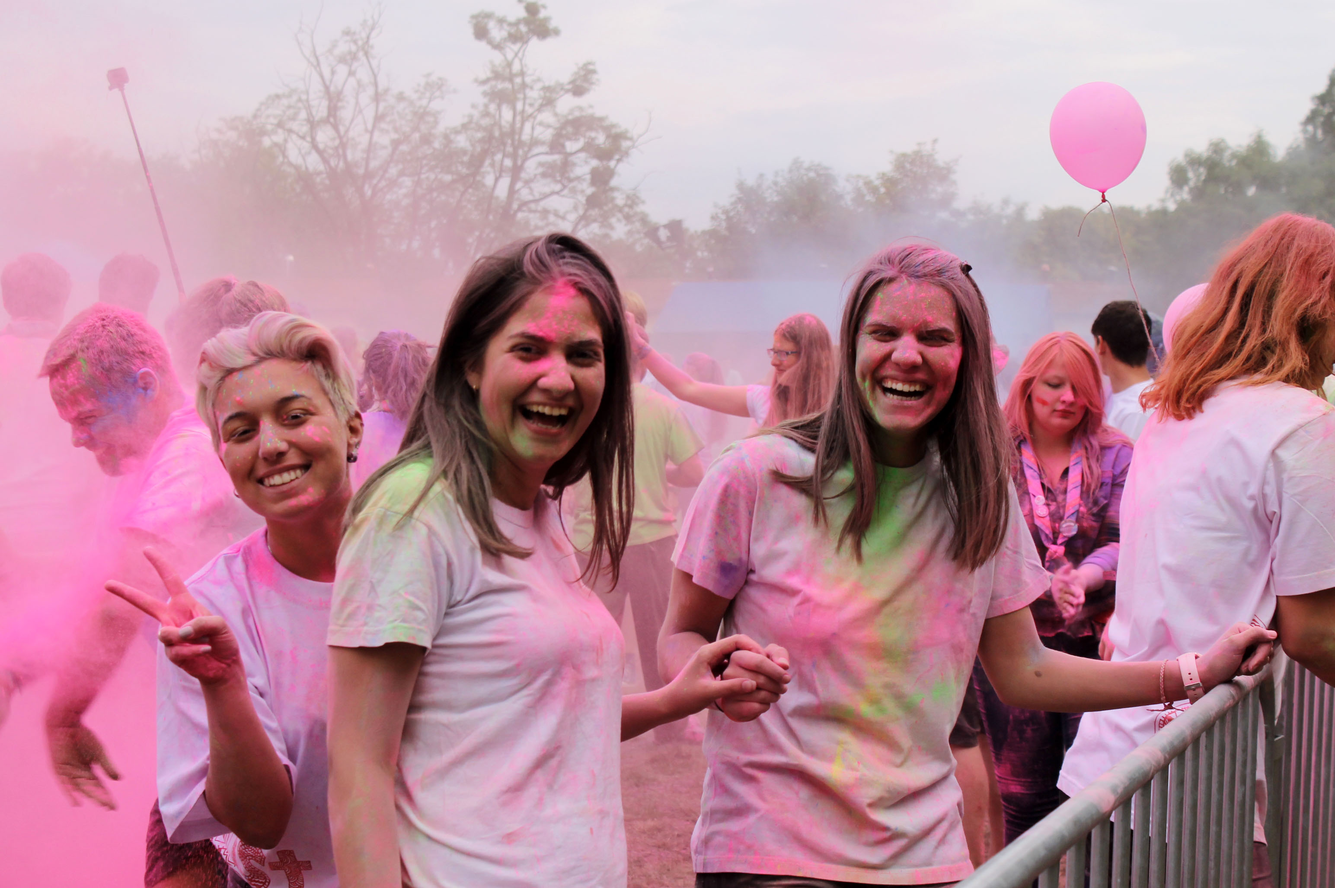
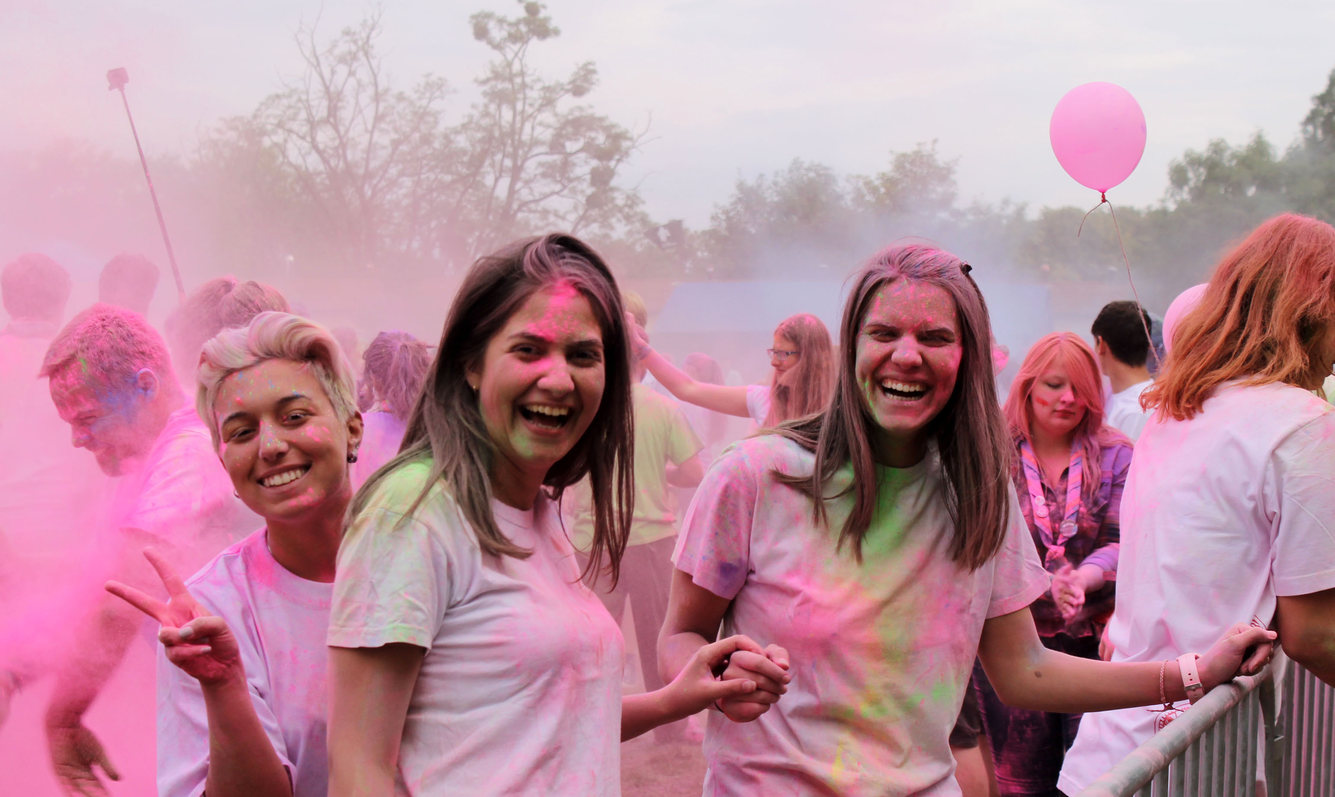
changed photos

diff --git a/index.html b/index.html
@@ -35,7 +35,7 @@
 		<a href="#registration" class="button">Registruj se!</a>
 	</div>
 
-	<img class="narrowPhoto" size="100vw" src="photos/IMG_1959.jpg" srcset="dist/photos/IMG_1959-400.jpg 400w, dist/photos/IMG_1959-800.jpg 800w, dist/photos/IMG_1959-1200.jpg 1200w, dist/photos/IMG_1959-2400.jpg 2400w">
+	<img class="narrowPhoto" size="100vw" src="photos/IMG_1959.jpg" srcset="photos/resized/IMG_1959-400.jpg 400w, photos/resized/IMG_1959-800.jpg 800w, photos/resized/IMG_1959-1200.jpg 1200w, photos/resized/IMG_1959-2400.jpg 2400w">
 
 	<div id="landing" class="cej2018 scrollblock">
 		<h2>Infomace o CEJ 2018</h2>
@@ -46,7 +46,7 @@
 		<p>Pokud však nechceš jet jako vedoucí patroly a je ti více jak 18, můžeš se přihlásit do International Service Team (IST) a pomáhat samotným organizátorům Jamboree vytvořit ten nejlepší zážitek pro účastníky!</p>
 	</div>
 
-	<img class="narrowPhoto" size="100vw" src="photos/13872872_1781997818738775_2136882962742316675_n.jpg" srcset="dist/photos/13872872_1781997818738775_2136882962742316675_n-400.jpg 400w, dist/photos/13872872_1781997818738775_2136882962742316675_n-800.jpg 800w, dist/photos/13872872_1781997818738775_2136882962742316675_n-1200.jpg 1200w, dist/photos/13872872_1781997818738775_2136882962742316675_n-2400.jpg 2400w">
+	<img class="narrowPhoto" size="100vw" src="photos/1203.jpg" srcset="photos/resized/1203-400.jpg 400w, photos/resized/1203-800.jpg 800w, photos/resized/1203-1200.jpg 1200w, photos/resized/1203-2400.jpg 2400w">
 
 	<div id="program" class="program scrollblock">
 		<h2>Program</h2>
@@ -57,7 +57,7 @@
 		<p>Můžeš se těšit na ceremoniály, které se konají vždy na začátku a na konci akce a jejichž cílem je všechny přivítat a zahájit akci, či se rozloučit a společně akci ukončit. Na international day, kde každá země, která se Jamboree účastní, má za úkol představit svou kulturu jiným zemím a na mnoho dalších skvělých aktivit, které si pro tebe organizátoři připraví!
 	</div>
 
-	<img class="narrowPhoto" size="100vw" src="photos/13925026_1779701612301729_6335992691709511029_n.jpg" srcset="dist/photos/13925026_1779701612301729_6335992691709511029_n-400.jpg 400w, dist/photos/13925026_1779701612301729_6335992691709511029_n-800.jpg 800w, dist/photos/13925026_1779701612301729_6335992691709511029_n-1200.jpg 1200w, dist/photos/13925026_1779701612301729_6335992691709511029_n-2400.jpg 2400w">
+	<img class="narrowPhoto" size="100vw" src="photos/1154.jpg" srcset="photos/resized/1154-400.jpg 400w, photos/resized/1154-800.jpg 800w, photos/resized/1154-1200.jpg 1200w, photos/resized/1154-2400.jpg 2400w">
 
 	<div id="patrol" class="patrol scrollblock">
 		<h2>Patrola</h2>
@@ -72,7 +72,7 @@
 		<p>Členové International Service Teamu (IST) si jedou Jamboree užít trochu z jiného úhlu pohledu – z toho organizátorského. Pokud je ti více jak osmnáct let a nebojíš se práce s přibližně šestihodinovou denní pracovní dobou, tak se k nám rozhodně přidej!</p>
 	</div>
 
-	<img class="narrowPhoto" size="100vw" src="photos/IMG_2228.jpg" srcset="dist/photos/IMG_2228-400.jpg 400w, dist/photos/IMG_2228-800.jpg 800w, dist/photos/IMG_2228-1200.jpg 1200w, dist/photos/IMG_2228-2400.jpg 2400w">
+	<img class="narrowPhoto" size="100vw" src="photos/IMG_2228.jpg" srcset="photos/resized/IMG_2228-400.jpg 400w, photos/resized/IMG_2228-800.jpg 800w, photos/resized/IMG_2228-1200.jpg 1200w, photos/resized/IMG_2228-2400.jpg 2400w">
 
 	<div id="faq" class="faq scrollblock">
 		<h2>FAQ</h2>
@@ -96,7 +96,7 @@
 		<p>Pokud si myslíš, že zvládne komunikovat v angličtině a je dostatečně dospělý na to, aby si to užil, tak nám napiš a domluvíme se individuálně. ;)</p>
 	</div>
 
-	<img class="narrowPhoto" size="100vw" src="photos/IMG_0111.jpg" srcset="dist/photos/IMG_0111-400.jpg 400w, dist/photos/IMG_0111-800.jpg 800w, dist/photos/IMG_0111-1200.jpg 1200w, dist/photos/IMG_0111-2400.jpg 2400w">
+	<img class="narrowPhoto" size="100vw" src="photos/1212.jpg" srcset="photos/resized/1212-400.jpg 400w, photos/resized/1212-800.jpg 800w, photos/resized/1212-1200.jpg 1200w, photos/resized/1212-2400.jpg 2400w">
 
 	<div id="registration" class="registration scrollblock">
 		<h2>Registrace</h2>
@@ -106,7 +106,7 @@
 		<a href="#landing" class="button">Registrace začne 12.12 ve 12:12! </a>
 	</div>
 
-	<img class="narrowPhoto" size="100vw" src="photos/IMG_6057a.jpg" srcset="dist/photos/IMG_6057a-400.jpg 400w, dist/photos/IMG_6057a-800.jpg 800w, dist/photos/IMG_6057a-1200.jpg 1200w, dist/photos/IMG_6057a-2400.jpg 2400w">
+	<img class="narrowPhoto" size="100vw" src="photos/IMG_6057a.jpg" srcset="photos/resized/IMG_6057a-400.jpg 400w, photos/resized/IMG_6057a-800.jpg 800w, photos/resized/IMG_6057a-1200.jpg 1200w, photos/resized/IMG_6057a-2400.jpg 2400w">
 
 	<div id="contact" class="contact scrollblock">
 		<h2>Kontakty</h2>
@@ -118,7 +118,7 @@
 		<a href="https://www.instagram.com/skautcz" class="button">#cej2018cz</a>
 	</div>
 
-	<img class="narrowPhoto" size="100vw" src="photos/IMAG1125.jpg" srcset="dist/photos/IMAG1125-400.jpg 400w, dist/photos/IMAG1125-800.jpg 800w, dist/photos/IMAG1125-1200.jpg 1200w, dist/photos/IMAG1125-2400.jpg 2400w">
+	<img class="narrowPhoto" size="100vw" src="photos/1171.jpg" srcset="photos/resized/1171-400.jpg 400w, photos/resized/1171-800.jpg 800w, photos/resized/1171-1200.jpg 1200w, photos/resized/1171-2400.jpg 2400w">
 
 	<div id="team" class="team scrollblock">
 		<h2>Tým</h2>
@@ -170,13 +170,7 @@
 				<h4>registrace</h4>
 				<img class="faceImage" src="https://ca.slack-edge.com/T2PU6FM0R-U2PUBT8F4-641c52c85894-512">
 			</div>
-<!--
-			<div class="memberProfile">
-				<h3>Dave</h3>
-				<h4>komunikace</h4>
-				<img class="faceImage" src="https://ca.slack-edge.com/T2PU6FM0R-U2QF71FT2-g307914d7e3a-512">
-			</div>
--->
+
 			<div class="memberProfile">
 				<h3>Piškot</h3>
 				<h4>komunikace</h4>
